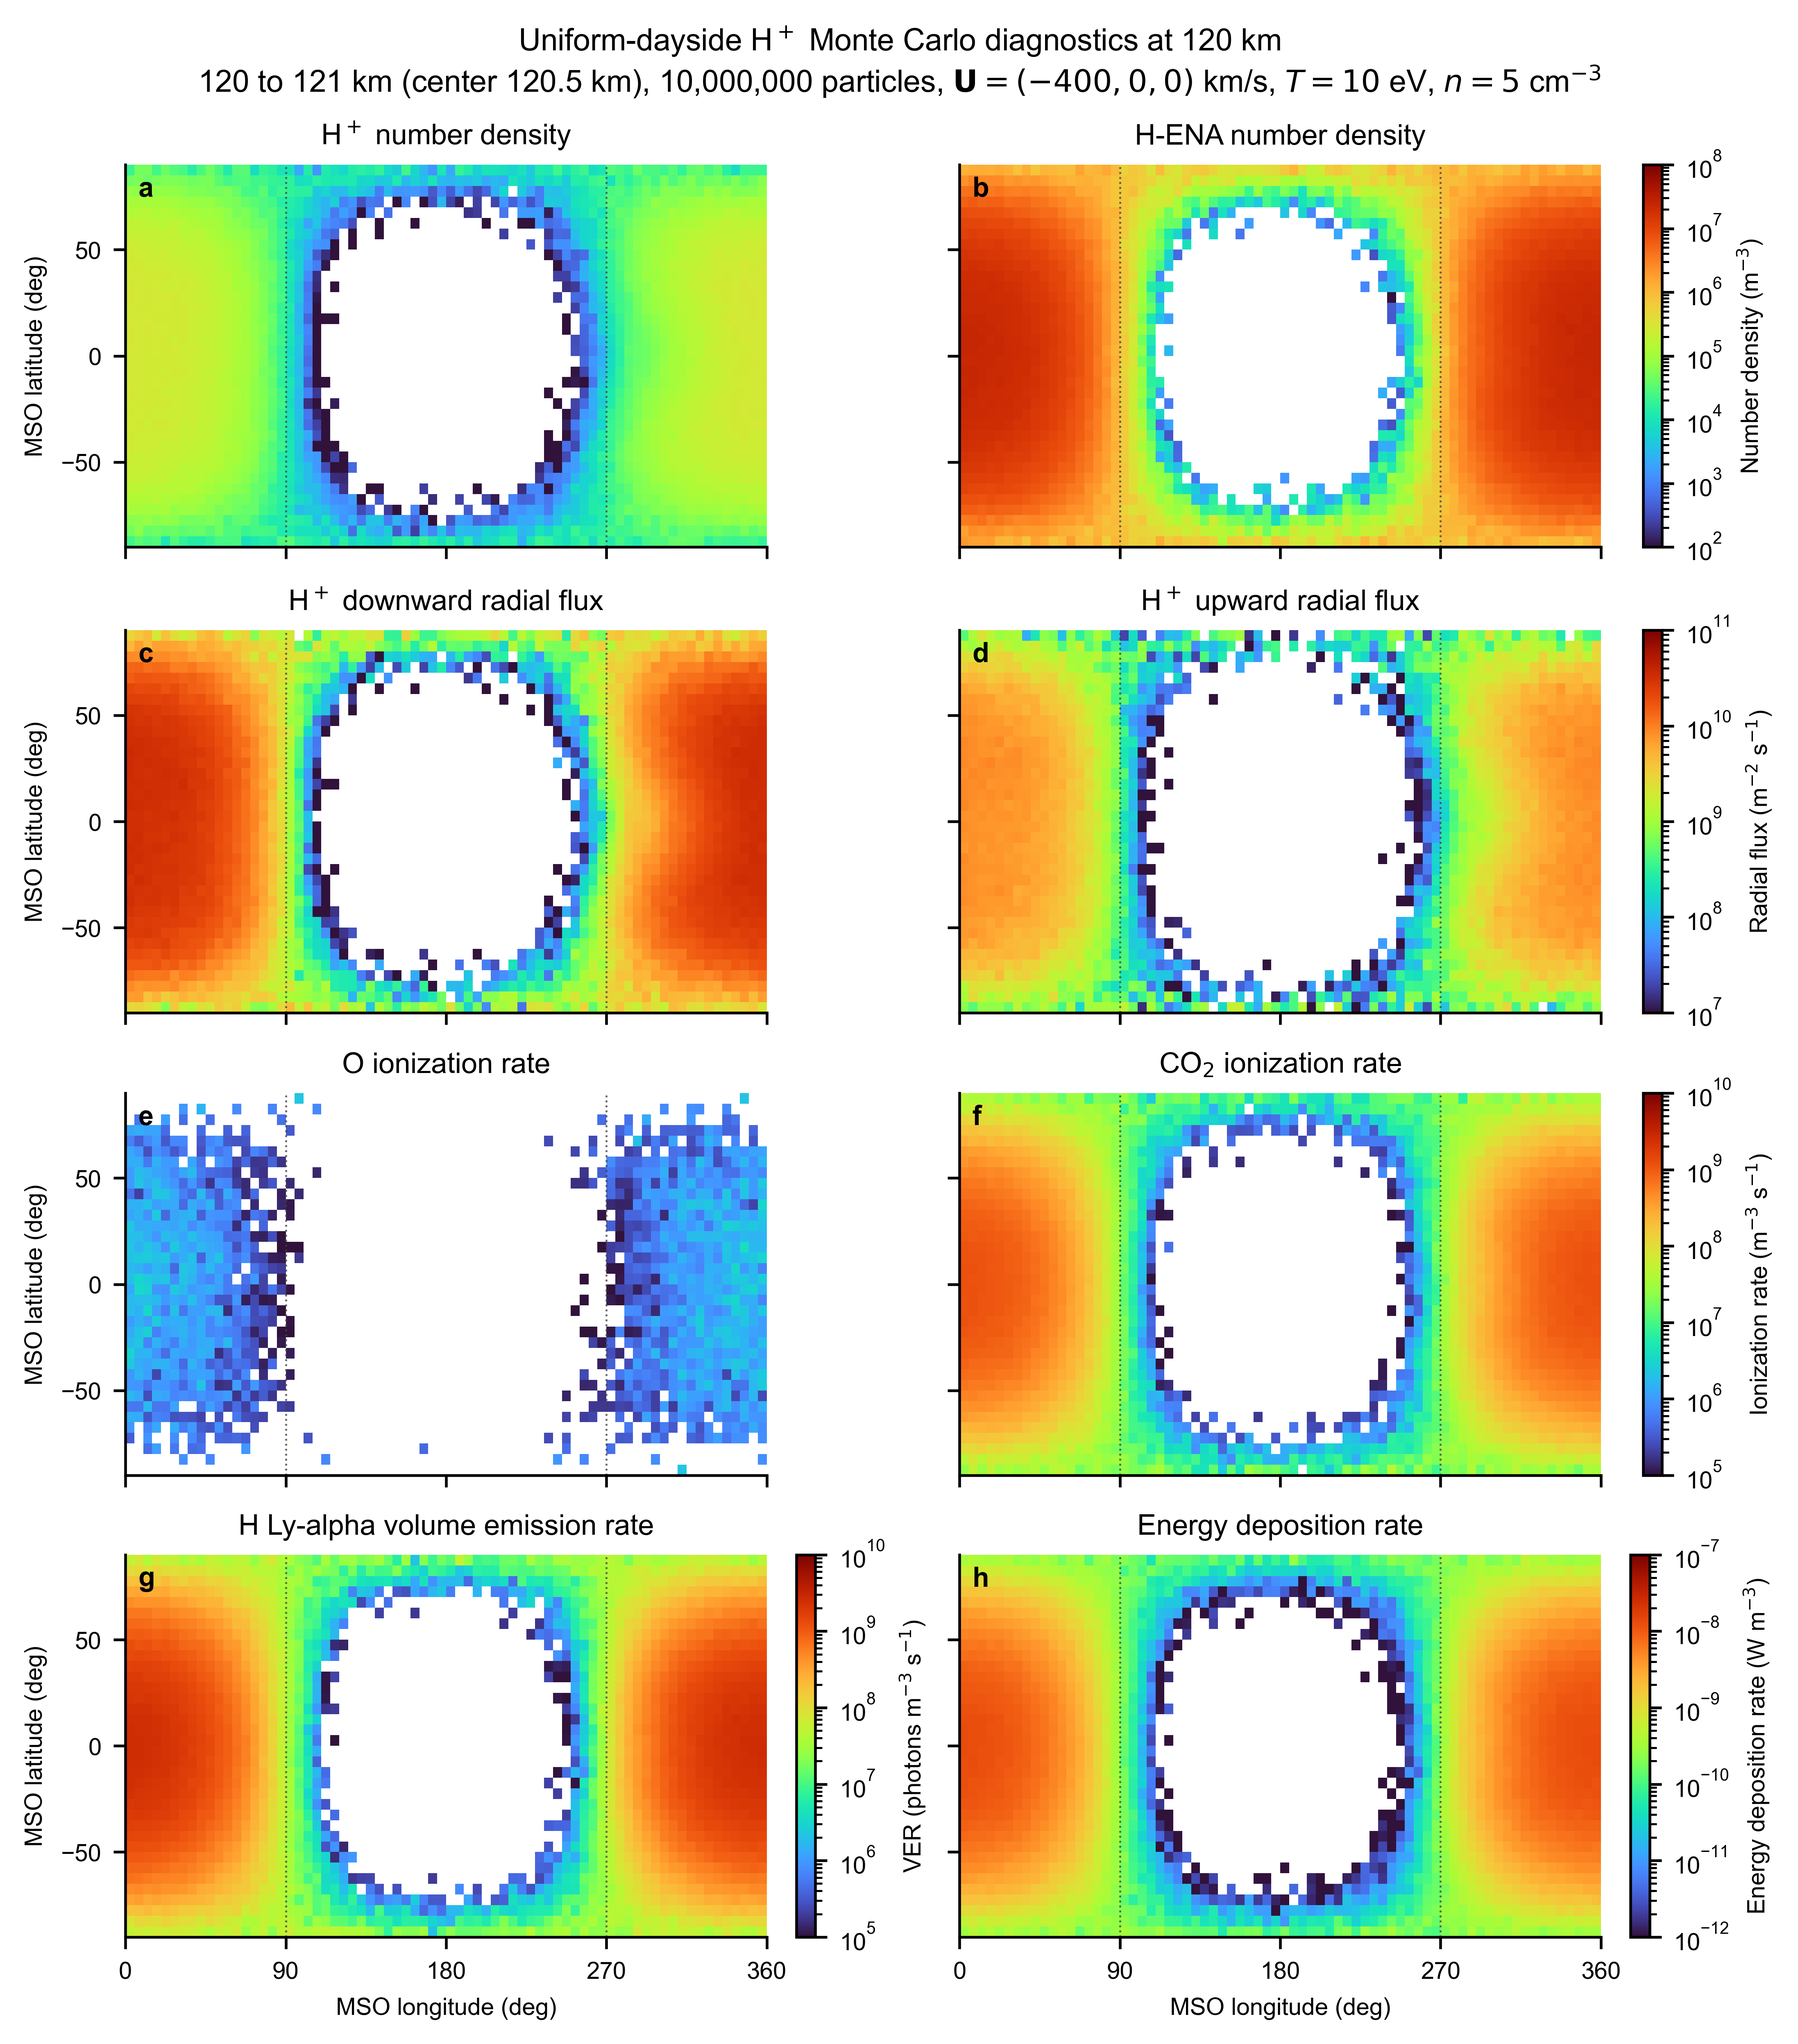
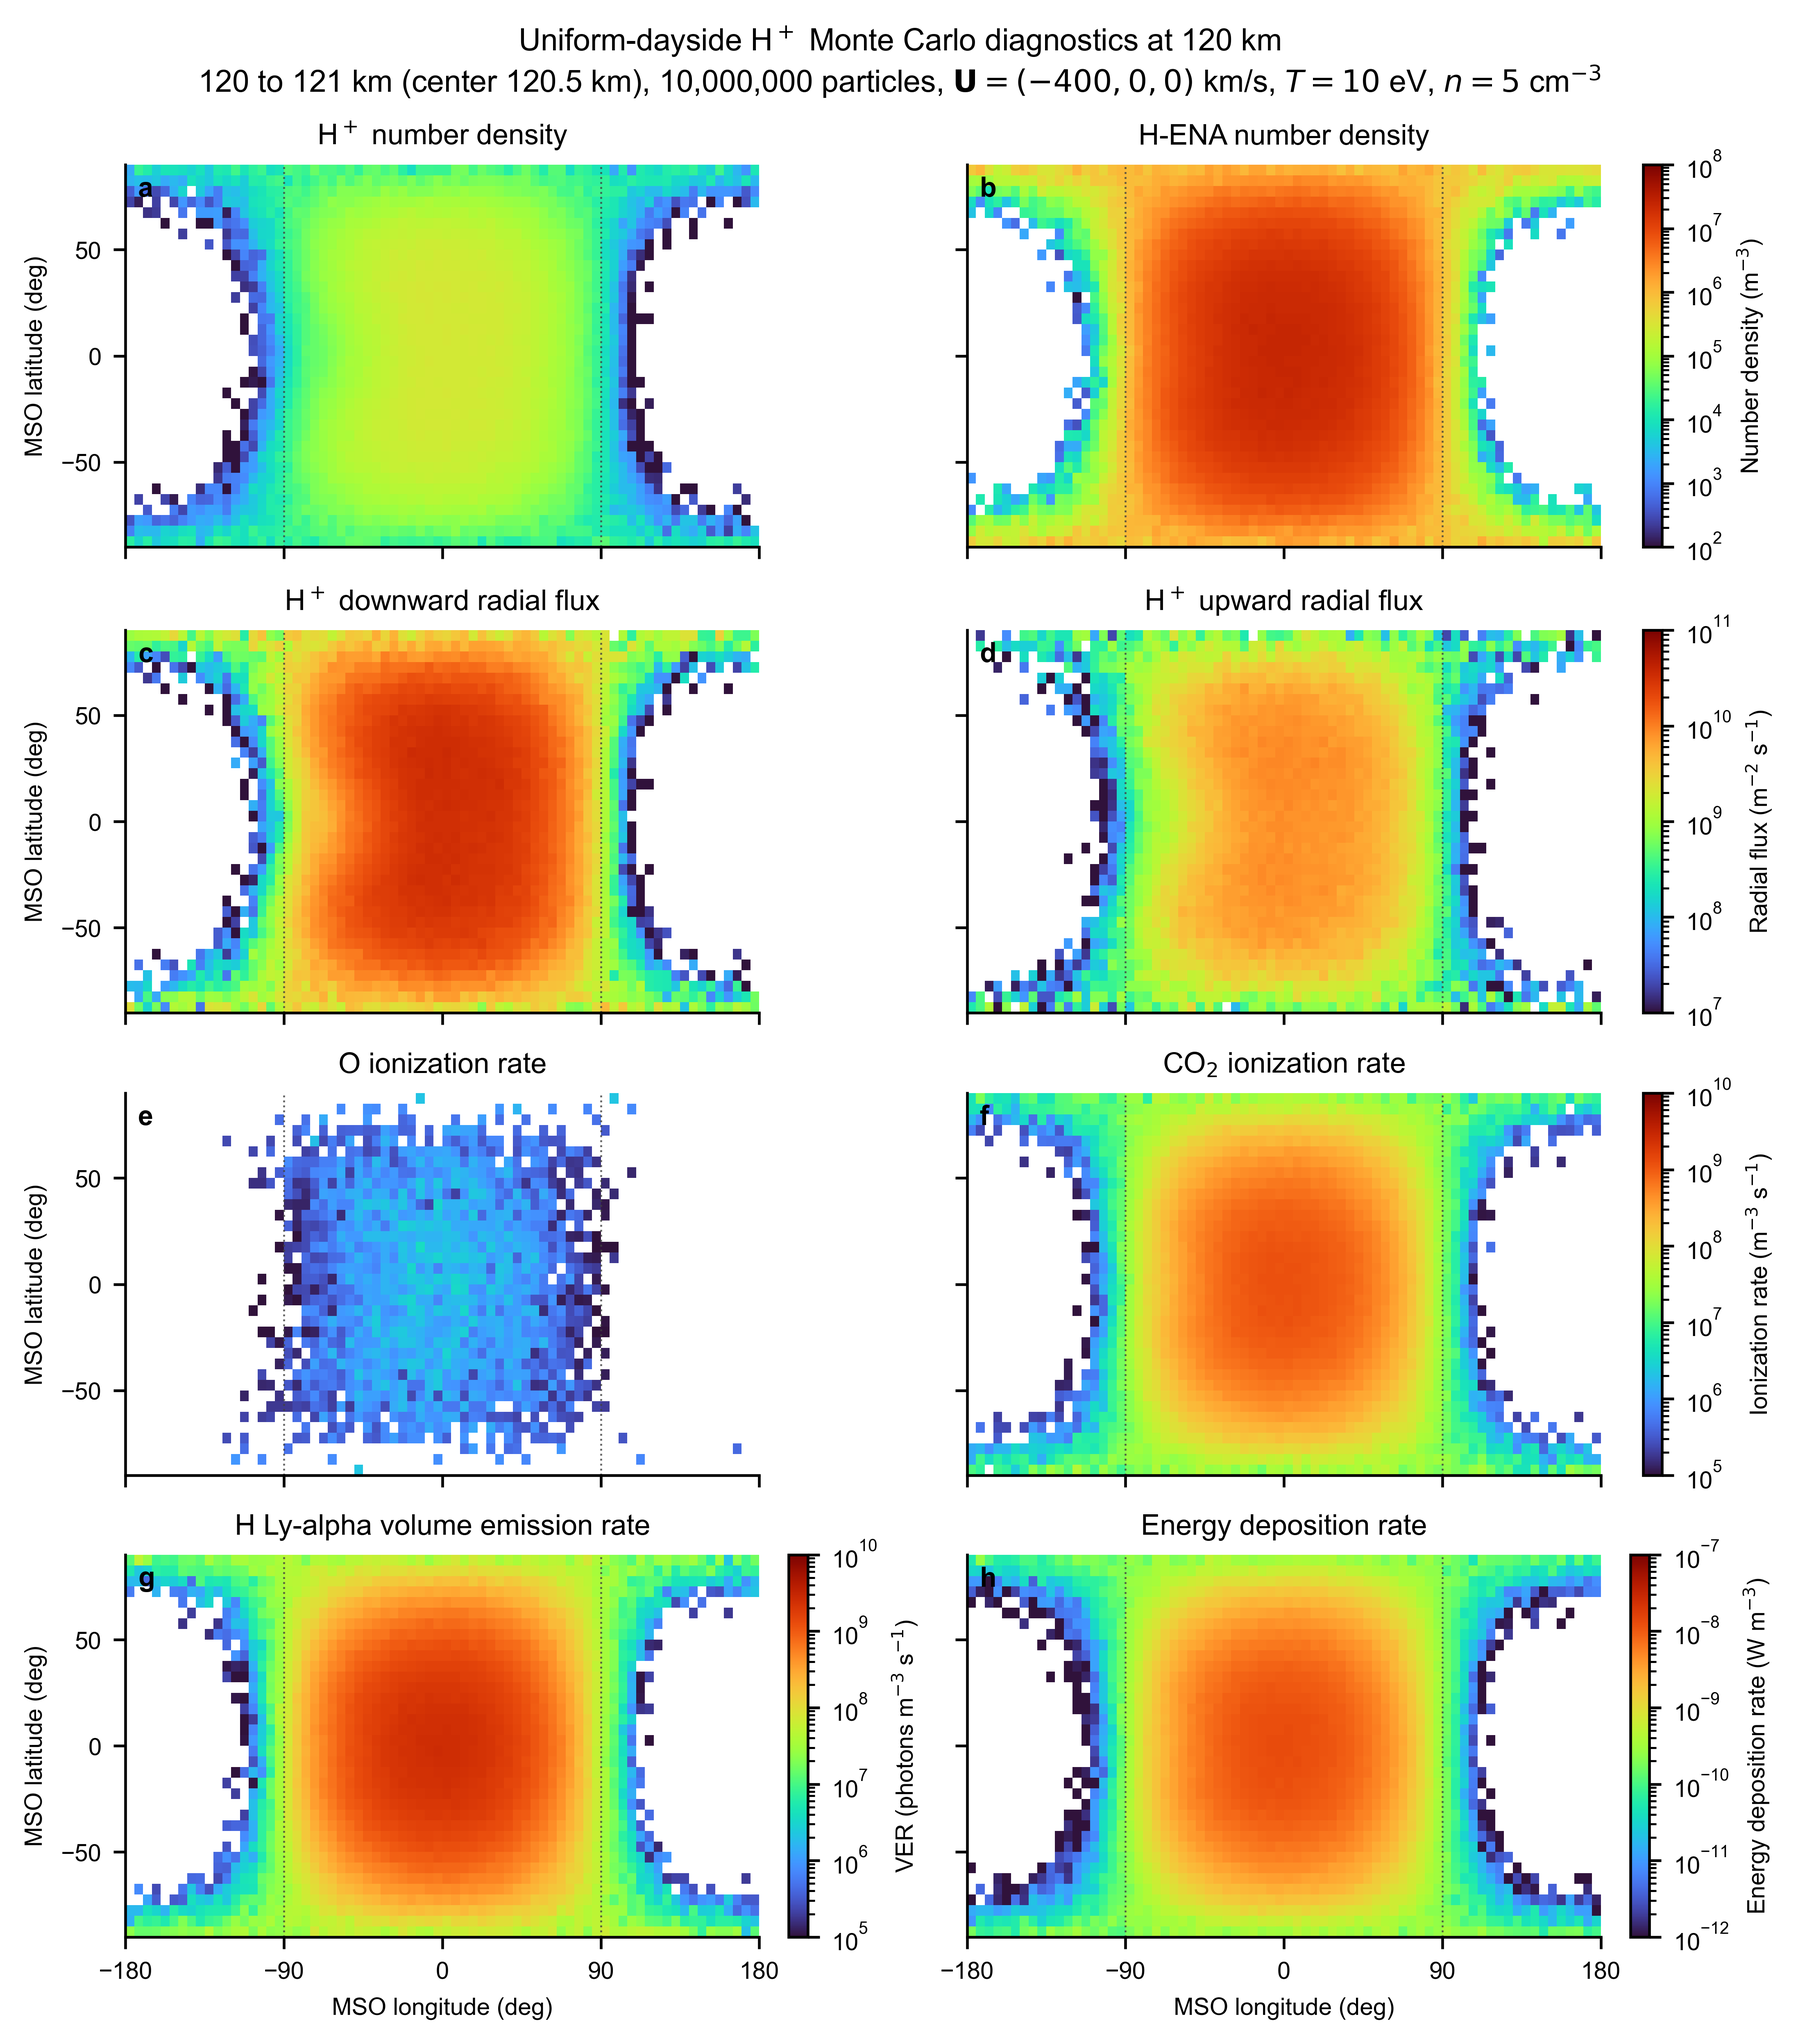
Center dayside maps and add MGITM temperature diagnostic

diff --git a/examples/plot_gitm_temperature_200km.py b/examples/plot_gitm_temperature_200km.py
@@ -1,0 +1,153 @@
+"""Plot MGITM neutral temperature at 200 km on its native longitude grid."""
+
+from __future__ import annotations
+
+from pathlib import Path
+
+import matplotlib as mpl
+import matplotlib.pyplot as plt
+import numpy as np
+from scipy.io import loadmat
+
+REPO = Path(__file__).resolve().parents[1]
+INPUT = REPO / "data" / "atmosphere" / "gitm_ls000_f130.mat"
+OUTPUT = (
+    REPO / "examples" / "figures" /
+    "gitm_neutral_temperature_200km.png"
+)
+ALTITUDE_KM = 200.0
+
+mpl.rcParams.update({
+    "font.family": "Arial",
+    "mathtext.fontset": "dejavusans",
+    "font.size": 7,
+    "axes.linewidth": 0.8,
+    "axes.spines.top": False,
+    "axes.spines.right": False,
+})
+
+
+def coordinate_edges(centers: np.ndarray) -> np.ndarray:
+    """Construct regularly spaced cell edges from cell centers."""
+    centers = np.asarray(centers, dtype=float).squeeze()
+    spacing = float(np.median(np.diff(centers)))
+    return np.concatenate((
+        [centers[0] - spacing / 2.0],
+        0.5 * (centers[:-1] + centers[1:]),
+        [centers[-1] + spacing / 2.0],
+    ))
+
+
+def interpolate_temperature(
+    altitude_km: np.ndarray,
+    temperature_k: np.ndarray,
+    requested_altitude_km: float,
+) -> np.ndarray:
+    """Linearly interpolate the 3D neutral temperature in altitude."""
+    altitude = np.asarray(altitude_km, dtype=float).squeeze()
+    temperature = np.asarray(temperature_k, dtype=float)
+    if not altitude[0] <= requested_altitude_km <= altitude[-1]:
+        raise ValueError(
+            f"{requested_altitude_km:g} km is outside "
+            f"{altitude[0]:g} to {altitude[-1]:g} km."
+        )
+    upper = int(np.searchsorted(altitude, requested_altitude_km))
+    if altitude[upper] == requested_altitude_km:
+        return temperature[:, :, upper].copy()
+    lower = upper - 1
+    fraction = (
+        (requested_altitude_km - altitude[lower])
+        / (altitude[upper] - altitude[lower])
+    )
+    return (
+        temperature[:, :, lower]
+        + fraction * (
+            temperature[:, :, upper] - temperature[:, :, lower]
+        )
+    )
+
+
+def main() -> None:
+    gitm = loadmat(INPUT, squeeze_me=True)
+    temperature_lon_lat = interpolate_temperature(
+        gitm["alt_km"], gitm["Tn"], ALTITUDE_KM
+    )
+
+    # MGITM longitude is stored from 0 to 360 degrees. Roll only for the
+    # conventional -180 to 180 degree display. The packaged file does not
+    # include the subsolar longitude needed to convert this native longitude
+    # into MSO longitude.
+    temperature_lat_lon = np.roll(
+        temperature_lon_lat.T,
+        -(temperature_lon_lat.shape[0] // 2),
+        axis=1,
+    )
+    longitude_edges = np.linspace(-180.0, 180.0, 73)
+    latitude_edges = coordinate_edges(gitm["lat_deg"])
+    longitude_centers = np.linspace(-177.5, 177.5, 72)
+    latitude_centers = np.asarray(gitm["lat_deg"], dtype=float)
+    maximum_index = np.unravel_index(
+        np.nanargmax(temperature_lat_lon), temperature_lat_lon.shape
+    )
+    maximum_longitude = longitude_centers[maximum_index[1]]
+    maximum_latitude = latitude_centers[maximum_index[0]]
+
+    fig, axis = plt.subplots(
+        1, 1, figsize=(7.2, 3.5), constrained_layout=True
+    )
+    mesh = axis.pcolormesh(
+        longitude_edges,
+        latitude_edges,
+        temperature_lat_lon,
+        shading="flat",
+        cmap="turbo",
+        rasterized=True,
+    )
+    axis.set(
+        xlim=(-180, 180),
+        ylim=(-90, 90),
+        xticks=(-180, -90, 0, 90, 180),
+        yticks=(-90, -45, 0, 45, 90),
+        xlabel="Longitude used by MarsASPEN (deg)",
+        ylabel="MGITM latitude (deg)",
+        title=(
+            "MGITM neutral temperature at 200 km\n"
+            r"$L_s=0^\circ$, F10.7 = 130"
+        ),
+    )
+    axis.axvline(-90, color="white", lw=0.8, ls=":", alpha=0.9)
+    axis.axvline(90, color="white", lw=0.8, ls=":", alpha=0.9)
+    axis.plot(
+        0.0, 0.0,
+        marker="*", ms=8, color="white",
+        markeredgecolor="0.15", markeredgewidth=0.5,
+        label="MarsASPEN subsolar point",
+    )
+    axis.plot(
+        maximum_longitude, maximum_latitude,
+        marker="x", ms=6, color="black", markeredgewidth=1.0,
+        label=(
+            "Temperature maximum\n"
+            f"({maximum_longitude:.1f}°, {maximum_latitude:.1f}°)"
+        ),
+    )
+    axis.legend(loc="upper right", fontsize=6.5)
+    colorbar = fig.colorbar(mesh, ax=axis, pad=0.015)
+    colorbar.set_label("Neutral temperature (K)")
+
+    OUTPUT.parent.mkdir(parents=True, exist_ok=True)
+    fig.savefig(OUTPUT, dpi=600, bbox_inches="tight")
+    plt.close(fig)
+    print(
+        f"temperature_range_k=({temperature_lat_lon.min():.6g}, "
+        f"{temperature_lat_lon.max():.6g})"
+    )
+    print(
+        f"temperature_maximum_lon_lat_deg="
+        f"({maximum_longitude:.6g}, {maximum_latitude:.6g})"
+    )
+    print(f"output={OUTPUT.resolve()}")
+
+
+if __name__ == "__main__":
+    main()

diff --git a/examples/plot_dayside_3d_maps_120km.py b/examples/plot_dayside_3d_maps_120km.py
@@ -36,6 +36,11 @@ def positive_log_limits(values: np.ndarray) -> tuple[float, float]:
     return low, max(high, low * 10.0)
 
 
+def longitude_shift(values: np.ndarray) -> np.ndarray:
+    """Move the 0 degree MSO subsolar longitude to the map center."""
+    return np.roll(values, -(values.shape[-1] // 2), axis=-1)
+
+
 def main() -> None:
     parser = argparse.ArgumentParser()
     parser.add_argument(
@@ -62,7 +67,7 @@ def main() -> None:
     altitude_low = altitude_edges[altitude_index]
     altitude_high = altitude_edges[altitude_index + 1]
     latitude_edges = np.ravel(moments["latitude_edges_deg"])
-    longitude_edges = np.ravel(moments["longitude_edges_deg"])
+    longitude_edges = np.linspace(-180.0, 180.0, 73)
 
     maps = [
         np.asarray(moments["number_density_by_charge_m3"])[
@@ -88,6 +93,7 @@ def main() -> None:
         )[altitude_index],
         np.asarray(energy["total_energy_transfer_w_m3"])[altitude_index],
     ]
+    maps = [longitude_shift(values) for values in maps]
     titles = (
         "H$^+$ number density",
         "H-ENA number density",
@@ -127,14 +133,14 @@ def main() -> None:
             rasterized=True,
         )
         meshes.append(mesh)
-        axis.set(xlim=(0, 360), ylim=(-90, 90), title=title)
+        axis.set(xlim=(-180, 180), ylim=(-90, 90), title=title)
         if panel >= 6:
             axis.set_xlabel("MSO longitude (deg)")
         if panel % 2 == 0:
             axis.set_ylabel("MSO latitude (deg)")
+        axis.axvline(-90, color="0.25", lw=0.55, ls=":", alpha=0.8)
         axis.axvline(90, color="0.25", lw=0.55, ls=":", alpha=0.8)
-        axis.axvline(270, color="0.25", lw=0.55, ls=":", alpha=0.8)
-        axis.set_xticks((0, 90, 180, 270, 360))
+        axis.set_xticks((-180, -90, 0, 90, 180))
         axis.text(
             0.02, 0.97, "abcdefgh"[panel],
             transform=axis.transAxes, ha="left", va="top",

diff --git a/examples/README.md b/examples/README.md
@@ -640,14 +640,32 @@ Output:
 C:\Users\Win\.conda\envs\mars\python.exe examples/plot_dayside_3d_maps_120km.py
 ```
 
-The four-row, two-column layout uses longitude from 0 to 360 degrees and
-latitude from -90 to 90 degrees. The panels show H+ and H-ENA number densities,
+The four-row, two-column layout uses longitude from -180 to 180 degrees, with
+the subsolar longitude at 0 degrees in the map center, and latitude from -90
+to 90 degrees. The panels show H+ and H-ENA number densities,
 H+ downward and upward radial fluxes, O and CO2 ionization rates, H Ly-alpha
 volume emission rate, and total energy deposition rate. The two density panels
 share one color scale, the two H+ flux panels share one color scale, and the
 two target-ionization panels share one color scale:
 
 `examples/figures/dayside_hplus_10000000_3d_maps_120km_8panel.png`
+
+The following independent MGITM diagnostic plots the neutral temperature for
+the same $L_s=0^\circ$, F10.7 = 130 atmosphere at 200 km. Longitude is shown
+from -180 to 180 degrees. MarsASPEN currently uses the packaged MGITM longitude
+directly as MSO longitude, so the star at longitude and latitude zero marks the
+subsolar point used by transport and the dotted lines at -90 and 90 degrees
+mark its terminators. The packaged atmosphere does not contain an independent
+geographic-to-MSO rotation, so the temperature maximum is also marked to make
+this coordinate assumption directly inspectable:
+
+```powershell
+C:\Users\Win\.conda\envs\mars\python.exe examples/plot_gitm_temperature_200km.py
+```
+
+The PNG is:
+
+`examples/figures/gitm_neutral_temperature_200km.png`
 
 ### Altitude profiles
 
